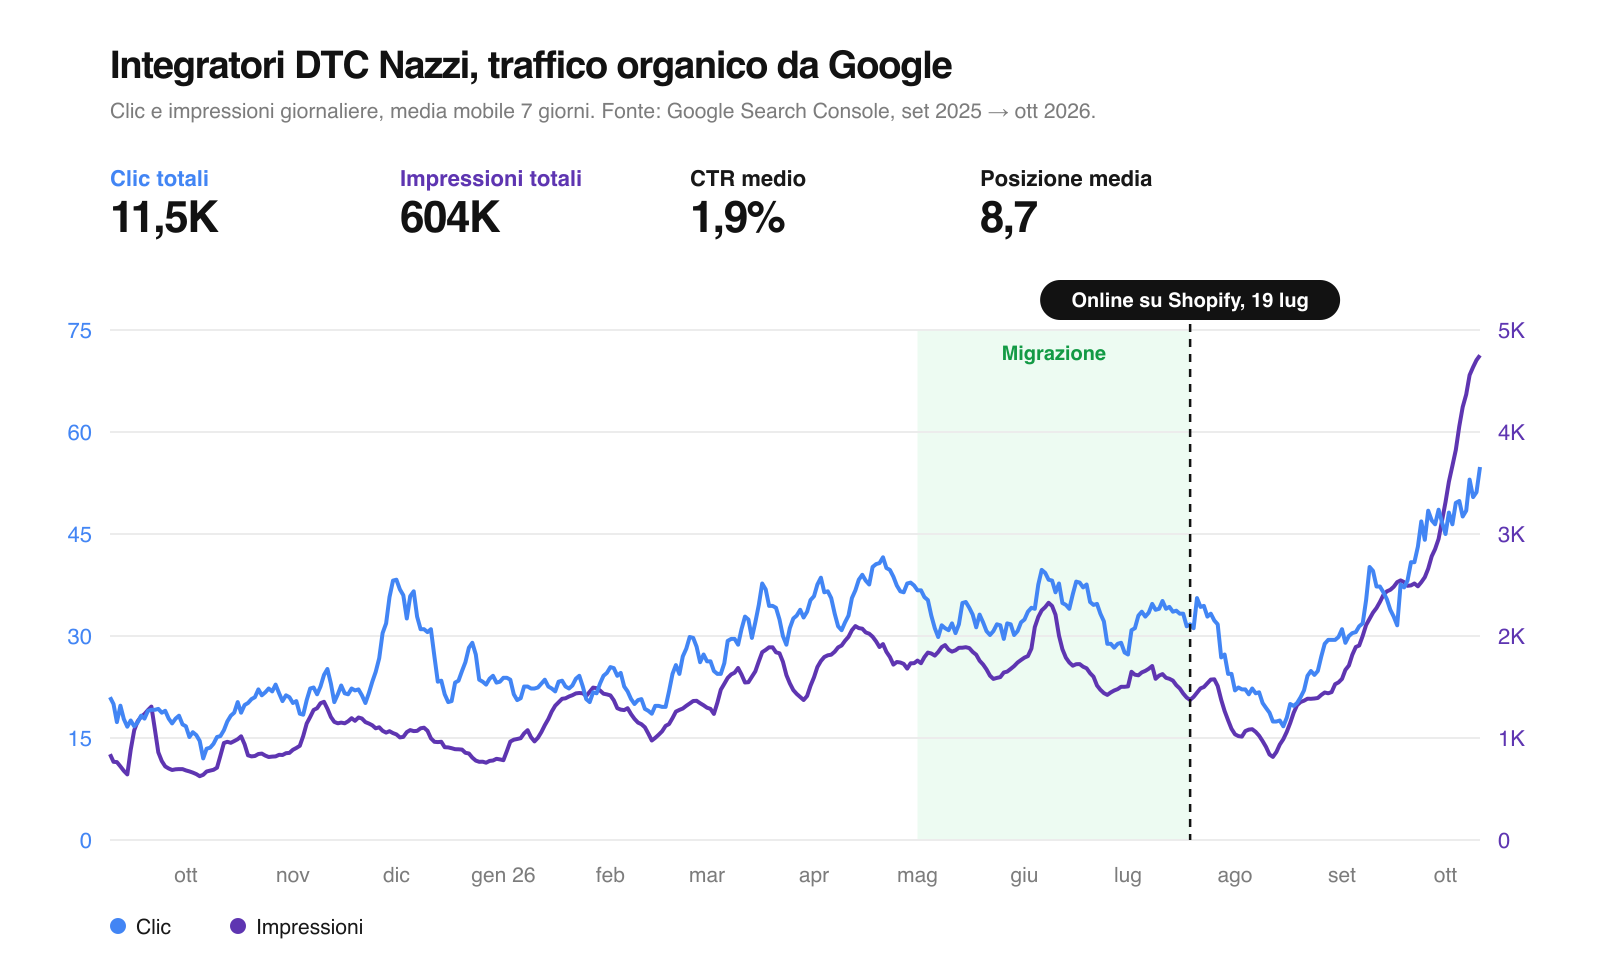
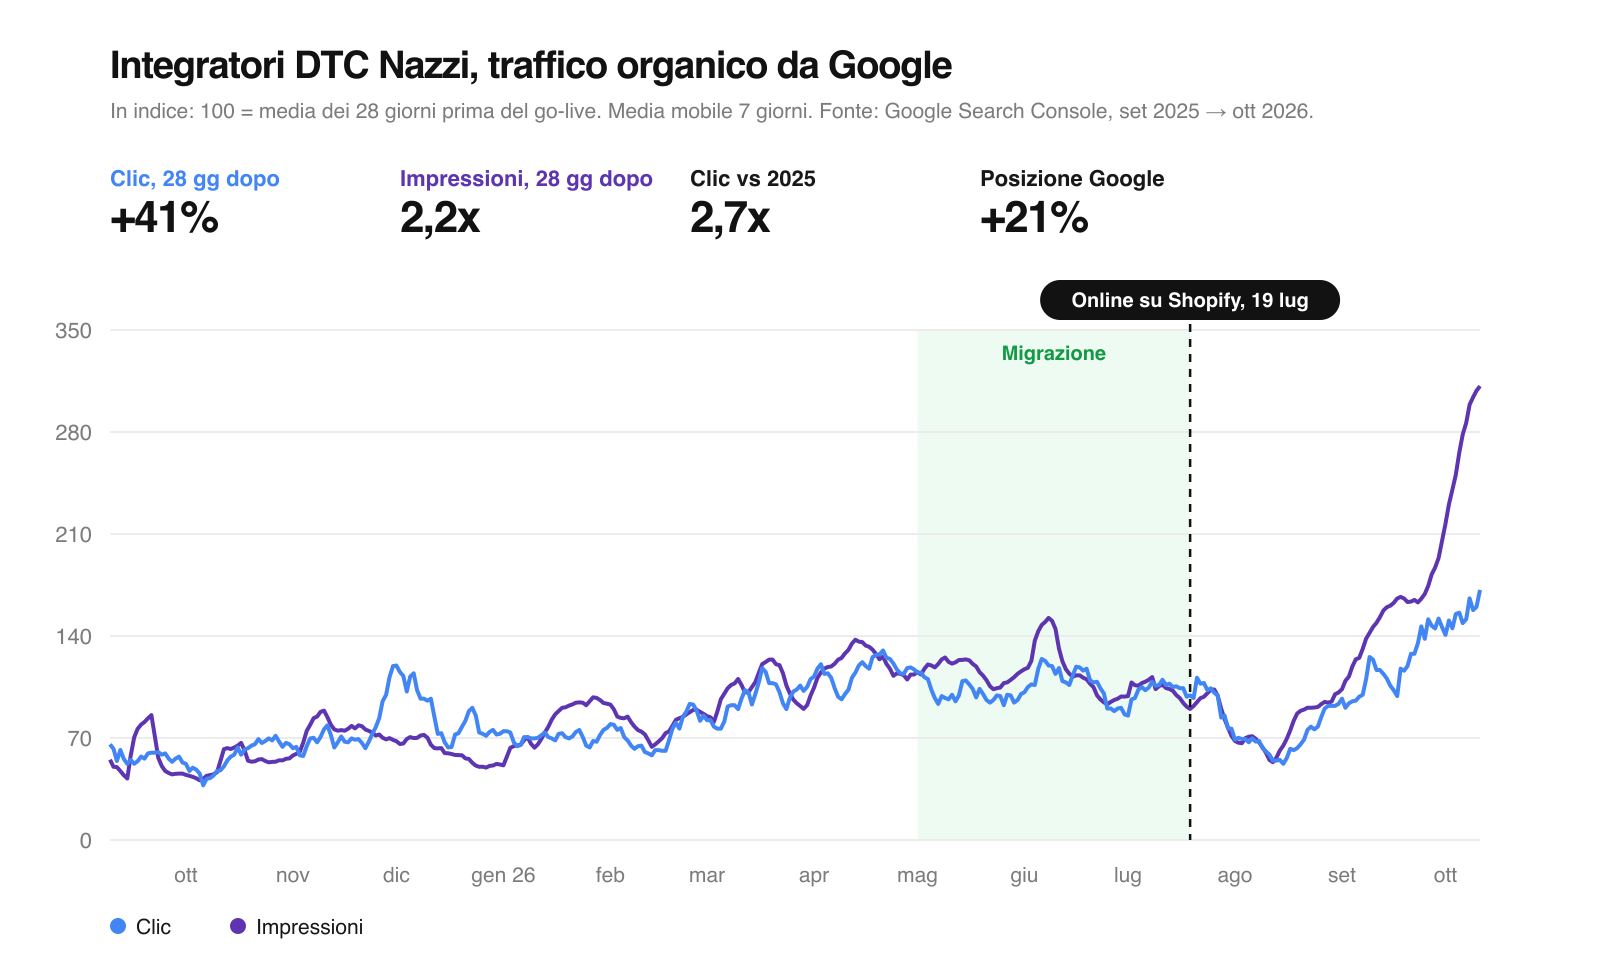
feat: no absolute traffic volumes online, Nazzi Search Console series as an index with percentage KPIs (v1.7.6)
- data/use-cases/nazzi-gsc-daily.json now holds the daily index (100 = average of the 28 days before go-live), so the client bundle carries no raw clicks or impressions
- Landing chart and case study PNG on one indexed axis; KPIs +41% clicks and 2.2x impressions (28 days after vs before), 2.7x clicks vs 2025, +21% average position; the 9.0 → 7.1 figure is no longer published
- Case study text, landing results line, llms.txt aligned; rule in AGENT.md and docs/dati-verificati.md (which keeps the raw totals and the baseline)

diff --git a/data/use-cases/nazzi.ts b/data/use-cases/nazzi.ts
@@ -16,7 +16,8 @@ import type { UseCase } from './index'
  * - 2026 Jan → Oct 12 vs full 2025: +20.0%
  * - Search Console API (data/use-cases/nazzi-gsc-daily.json, exact daily data, 2025-09-09 → 2026-10-11):
  *   last 28 days (Sep 12 → Oct 9) vs 28 days before go live (Jun 21 → Jul 18): clicks 1.41x, impressions 2.17x,
- *   position 9.0 → 7.1; vs same 28 days 2025: clicks 2.71x, impressions 4.03x; period: CTR 1.9%, position 8.7
+ *   position 9.0 → 7.1 (published as +21%); vs same 28 days 2025: clicks 2.71x, impressions 4.03x.
+ *   Public chart and JSON are an index (100 = 28 days before go-live): no absolute volumes online.
  * - Live site 2026-10-13: 143 blog articles in the Shopify sitemap, sitemap_agentic_discovery.xml
  *   published, 215 archived WooCommerce URLs checked one by one.
  */
@@ -166,7 +167,7 @@ export const nazzi: UseCase = {
     {
       type: 'image',
       src: '/images/use-case-nazzi/nazzi-search-console-it.png',
-      alt: 'Google Search Console di Integratori DTC Nazzi: clic e impressioni da settembre 2025 a ottobre 2026, prima e dopo la migrazione da WooCommerce a Shopify',
+      alt: 'Google Search Console di Integratori DTC Nazzi: clic e impressioni in indice da settembre 2025 a ottobre 2026, prima e dopo la migrazione da WooCommerce a Shopify',
       width: 1600,
       height: 960,
     },
@@ -180,11 +181,11 @@ export const nazzi: UseCase = {
     },
     {
       type: 'paragraph',
-      text: 'Negli ultimi 28 giorni i clic da Google sono stati il 41% in più dei 28 giorni prima della migrazione, e 2,7 volte quelli dello stesso periodo del 2025. Le impressioni sono più che raddoppiate rispetto a prima della migrazione, e sono 4 volte quelle di un anno fa. La posizione media è passata da 9,0 a 7,1.',
+      text: 'Negli ultimi 28 giorni i clic da Google sono stati il 41% in più dei 28 giorni prima della migrazione, e 2,7 volte quelli dello stesso periodo del 2025. Le impressioni sono più che raddoppiate rispetto a prima della migrazione, e sono 4 volte quelle di un anno fa. La posizione media su Google è migliorata del 21%.',
     },
     {
       type: 'paragraph',
-      text: 'Su tutto il periodo del grafico il CTR medio è dell’1,9% e la posizione media 8,7.',
+      text: 'Nei 28 giorni dopo il go-live la posizione media su Google è migliorata del 21% rispetto ai 28 giorni prima. Il grafico è in indice (100 = media dei 28 giorni prima del go-live): l’andamento è quello reale, i volumi restano del cliente.',
     },
     { type: 'h3', text: 'Le vendite dopo il go live' },
     {
@@ -403,7 +404,7 @@ export const nazzi: UseCase = {
     {
       type: 'image',
       src: '/images/use-case-nazzi/nazzi-search-console-en.png',
-      alt: 'Google Search Console for Supplement DTC Nazzi: clicks and impressions from September 2025 to October 2026, before and after the WooCommerce to Shopify migration',
+      alt: 'Google Search Console for Supplement DTC Nazzi: clicks and impressions, indexed, from September 2025 to October 2026, before and after the WooCommerce to Shopify migration',
       width: 1600,
       height: 960,
     },
@@ -417,11 +418,11 @@ export const nazzi: UseCase = {
     },
     {
       type: 'paragraph',
-      text: 'In the last 28 days Google clicks were 41% higher than in the 28 days before the migration, and 2.7 times the same period of 2025. Impressions more than doubled compared with before the migration, and are 4 times those of a year ago. The average position went from 9.0 to 7.1.',
+      text: 'In the last 28 days Google clicks were 41% higher than in the 28 days before the migration, and 2.7 times the same period of 2025. Impressions more than doubled compared with before the migration, and are 4 times those of a year ago. The average Google position improved by 21%.',
     },
     {
       type: 'paragraph',
-      text: 'Over the whole period in the chart the average CTR is 1.9% and the average position 8.7.',
+      text: 'In the 28 days after go-live the average Google position improved by 21% compared with the 28 days before. The chart is indexed (100 = daily average of the 28 days before go-live): the trend is the real one, the volumes stay with the client.',
     },
     { type: 'h3', text: 'Sales after go live' },
     {

diff --git a/content/zero-loss-migration.it.ts b/content/zero-loss-migration.it.ts
@@ -75,7 +75,7 @@ export const zeroLossIt: ZlCopy = {
     results: [
       { value: '+105% di vendite online nei primi 85 giorni su Shopify', attribution: 'Integratori DTC Nazzi' },
       { value: '+67,7% di vendite online nei 12 mesi dopo la migrazione', attribution: 'Cumini, luxury multibrand' },
-      { value: 'Posizione media su Google da 9,0 a 7,1, clic 2,7 volte l’anno prima', attribution: 'Integratori DTC Nazzi, Search Console' },
+      { value: 'Posizione su Google migliorata del 21%, clic 2,7 volte l’anno prima', attribution: 'Integratori DTC Nazzi, Search Console' },
       { value: '0 minuti offline in oltre 10 migrazioni', attribution: 'noprob agency' },
     ],
   },
@@ -355,12 +355,12 @@ export const zeroLossIt: ZlCopy = {
         {
           key: 'nazziGsc',
           title: 'Integratori DTC Nazzi, traffico organico da Google',
-          subtitle: 'Clic e impressioni giornaliere, media mobile 7 giorni. Fonte: Google Search Console, proprietà del sito di Integratori DTC Nazzi, da settembre 2025 a ottobre 2026.',
+          subtitle: 'Clic e impressioni giornaliere, media mobile 7 giorni, in indice: 100 è la media dei 28 giorni prima del go-live. Fonte: Google Search Console, proprietà del sito di Integratori DTC Nazzi, da settembre 2025 a ottobre 2026. I volumi restano del cliente.',
           kpis: [
-            { label: 'Clic totali', value: '11,5K' },
-            { label: 'Impressioni totali', value: '604K' },
-            { label: 'CTR medio', value: '1,9%' },
-            { label: 'Posizione media', value: '8,7' },
+            { label: 'Clic, 28 gg dopo il go-live', value: '+41%' },
+            { label: 'Impressioni, 28 gg dopo', value: '2,2x' },
+            { label: 'Clic vs 2025', value: '2,7x' },
+            { label: 'Posizione Google', value: '+21%' },
           ],
           legend: ['Clic', 'Impressioni'],
           migrationLabel: 'Migrazione',

diff --git a/content/zero-loss-migration.en.ts b/content/zero-loss-migration.en.ts
@@ -75,7 +75,7 @@ export const zeroLossEn: ZlCopy = {
     results: [
       { value: '+105% online sales in the first 85 days on Shopify', attribution: 'Supplement DTC Nazzi' },
       { value: '+67.7% online sales in the 12 months after the migration', attribution: 'Cumini, luxury multibrand' },
-      { value: 'Average Google position from 9.0 to 7.1, clicks 2.7 times the year before', attribution: 'Supplement DTC Nazzi, Search Console' },
+      { value: 'Google position improved by 21%, clicks 2.7 times the year before', attribution: 'Supplement DTC Nazzi, Search Console' },
       { value: '0 minutes offline across over 10 migrations', attribution: 'noprob agency' },
     ],
   },
@@ -355,12 +355,12 @@ export const zeroLossEn: ZlCopy = {
         {
           key: 'nazziGsc',
           title: 'Supplement DTC Nazzi, organic traffic from Google',
-          subtitle: 'Daily clicks and impressions, 7-day moving average. Source: Google Search Console, Supplement DTC Nazzi site property, September 2025 to October 2026.',
+          subtitle: 'Daily clicks and impressions, 7-day moving average, indexed: 100 is the daily average of the 28 days before go-live. Source: Google Search Console, Supplement DTC Nazzi site property, September 2025 to October 2026. The volumes stay with the client.',
           kpis: [
-            { label: 'Total clicks', value: '11.5K' },
-            { label: 'Total impressions', value: '604K' },
-            { label: 'Average CTR', value: '1.9%' },
-            { label: 'Average position', value: '8.7' },
+            { label: 'Clicks, 28 days after go-live', value: '+41%' },
+            { label: 'Impressions, 28 days after', value: '2.2x' },
+            { label: 'Clicks vs 2025', value: '2.7x' },
+            { label: 'Google position', value: '+21%' },
           ],
           legend: ['Clicks', 'Impressions'],
           migrationLabel: 'Migration',

diff --git a/data/zero-loss/seo-charts.ts b/data/zero-loss/seo-charts.ts
@@ -2,8 +2,10 @@
  * Series for the results charts of the Shopify Launch Sprint landing.
  * Sources and method in docs/dati-verificati.md.
  *
- * - Supplement DTC Nazzi: daily clicks and impressions from Google Search Console,
- *   read from data/use-cases/nazzi-gsc-daily.json (7-day moving average computed at render).
+ * - Supplement DTC Nazzi: daily clicks and impressions from Google Search Console as an
+ *   index (100 = daily average of the 28 days before go-live, 21 Jun → 18 Jul 2026), read
+ *   from data/use-cases/nazzi-gsc-daily.json (7-day moving average computed at render).
+ *   Index only: the raw volumes never ship to the browser.
  * - cuminiMonthly: [month, sales index, orders index], net sales and orders from the
  *   Shopify backend of cumini.com, 3-month moving average, 100 = monthly average of the
  *   12 months before Shopify (June 2024 → May 2025). Index only: no revenue figures.

diff --git a/components/sections/zero-loss/ZlSeoCharts.tsx b/components/sections/zero-loss/ZlSeoCharts.tsx
@@ -168,10 +168,9 @@ function chartFor(item: Item, lang: Lang) {
           dates={dates}
           lines={[
             { values: movingAverage(gscDaily.map((r) => r.c), 7), color: BLUE, axis: 'left' },
-            { values: movingAverage(gscDaily.map((r) => r.i), 7), color: PURPLE, axis: 'right' },
+            { values: movingAverage(gscDaily.map((r) => r.i), 7), color: PURPLE, axis: 'left' },
           ]}
-          left={{ max: 75, step: 15, color: BLUE }}
-          right={{ max: 5000, step: 1000, color: PURPLE }}
+          left={{ max: 350, step: 50, color: '#7c7c7c' }}
           migration={NAZZI_MIGRATION}
           goLiveLabel={item.goLiveLabel}
           migrationLabel={item.migrationLabel}

diff --git a/docs/dati-verificati.md b/docs/dati-verificati.md
@@ -9,7 +9,10 @@ Ultimo controllo: **16 ottobre 2026**.
 Grafici della landing Shopify Launch Sprint: Search Console di Integratori DTC Nazzi (clic e impressioni giornaliere, come nel case study) e vendite/ordini Cumini in indice (media mobile 3 mesi, 100 = media mensile dei 12 mesi prima di Shopify, fonte backend Shopify di cumini.com). Nessuna cifra di fatturato.
 
 Per riservatezza dei clienti pubblichiamo solo variazioni percentuali, moltiplicatori e
-rapporti, mai fatturati, ordini o clienti in valore assoluto.
+rapporti, mai fatturati, ordini o clienti in valore assoluto. Dal 17 ottobre 2026 vale anche per il
+traffico: niente clic, impressioni o sessioni in valore assoluto, né posizioni medie puntuali. I grafici
+sono in indice (100 = baseline prima del go-live) e i file dati spediti al browser contengono solo
+l'indice; i volumi restano in Search Console, GA4 e in questa pagina.
 
 ## Cumini (fashion luxury multibrand)
 
@@ -63,10 +66,11 @@ Gestione NoProb da gennaio 2024.
 | Giugno e luglio 2026 vs 2025 | 2,57x e 2,19x | mentre si costruiva il nuovo store |
 | Quiz AstrumDonna | oltre mille lead in meno di un mese | online dal 18 set 2026, Klaviyo |
 
-Search Console via API (dati giornalieri esatti in `data/use-cases/nazzi-gsc-daily.json`, dal 9 set 2025
-all'11 ott 2026; prima del 9 set 2025 la proprietà non restituisce dati): 11,5K clic, 604K impressioni,
-CTR 1,9%, posizione media 8,7. Ultimi 28 giorni (12 set → 9 ott) contro i 28 giorni prima del go live
-(21 giu → 18 lug): clic **+41%**, impressioni **2,2x**, posizione **9,0 → 7,1**. Contro gli stessi 28 giorni
+Search Console via API, dal 9 set 2025 all'11 ott 2026 (prima del 9 set 2025 la proprietà non restituisce
+dati): 11,5K clic, 604K impressioni, CTR 1,9%, posizione media 8,7. Questi totali restano qui: il file
+`data/use-cases/nazzi-gsc-daily.json` contiene l'indice giornaliero (100 = media dei 28 giorni prima del go
+live, 21 giu → 18 lug 2026: 31,96 clic e 1.525,7 impressioni al giorno), non i volumi. Ultimi 28 giorni (12 set → 9 ott) contro i 28 giorni prima del go live
+(21 giu → 18 lug): clic **+41%**, impressioni **2,2x**, posizione **9,0 → 7,1** (in pagina solo come **+21%**). Contro gli stessi 28 giorni
 del 2025: clic **2,7x**, impressioni **4,0x**. Agosto 2026 in calo (23 clic al giorno contro 32), settembre
 40, ottobre 53.
 

diff --git a/AGENT.md b/AGENT.md
@@ -15,7 +15,7 @@ copy, routes or tracking.
 
 ## Working rules
 
-1. **Verified data only.** Every public number (pages, blog, landings, `public/llms.txt`, emails) must be in `docs/dati-verificati.md` with its source; if it is not there, verify it or remove it. Client figures only as percentages, multipliers or ratios, never absolute revenue, orders or customers. Prices are in the "Listino" section of the same file: change them there and in every place it lists.
+1. **Verified data only.** Every public number (pages, blog, landings, `public/llms.txt`, emails) must be in `docs/dati-verificati.md` with its source; if it is not there, verify it or remove it. Client figures only as percentages, multipliers or ratios, never absolute revenue, orders or customers, and never absolute traffic volumes (clicks, impressions, sessions) or point average positions: charts are indexed (100 = baseline before go-live) and the data files shipped to the browser hold only the index. Prices are in the "Listino" section of the same file: change them there and in every place it lists.
 2. **One offer, one description.** The Sprint is 14 days, go-live on days 15-30, 90 days of support, 4 written guarantees, public price by company revenue (`ZL_TIERS` in `content/zero-loss-migration.shared.ts`) in 4 installments. Every page that mentions it (migration page, home, blog conclusions, ambassador, `llms.txt`, emails) must say exactly that. Never "10 giorni", "4 mesi", "garanzia 30 giorni" for the Sprint.
 3. **No em dashes** in any public copy (articles, Sprint copy, dictionaries, use cases, `llms.txt`): commas, parentheses or colons. `pnpm check:em-dash` enforces it.
 4. **Copy lives in the copy modules**, never hardcoded in components. IT and EN must say the same thing. House style IT: no "business", "call" becomes "videochiamata" (except "pre-call"), "noi" voice.

diff --git a/docs/CHANGELOG.md b/docs/CHANGELOG.md
@@ -4,6 +4,10 @@ Newest first. Rules live in [AGENT.md](../AGENT.md), the current architecture in
 [ARCHITECTURE.md](ARCHITECTURE.md). Every entry here is history: do not update
 old entries, add a new one on top.
 
+### Changelog v1.7.6 (17 Oct 2026)
+
+- **No absolute traffic volumes online**: the Nazzi Search Console series (landing chart, case study chart PNG, `data/use-cases/nazzi-gsc-daily.json` shipped to the browser) is an index, 100 = daily average of the 28 days before go-live, on one axis; KPIs are +41% clicks and 2.2x impressions (28 days after vs before), 2.7x clicks vs 2025 and +21% average position (9.0 → 7.1, no longer published). Case study text, landing results line and `llms.txt` aligned. Cumini was already indexed; DDglobal shows no axis values. Rule added to AGENT.md and `docs/dati-verificati.md`, which keeps the raw totals and the index baseline.
+
 ### Changelog v1.7.5 (17 Oct 2026)
 
 - **Sprint hero note, final form**: the proof strip of v1.7.4 is gone. The note "Lo possiamo dimostrare 😉" / "We can prove it 😉" (serif italic, green, inline SVG arrow pointing back at the word) is glued to the last word of the H1 claim ("vendite." / "sales.") with `whitespace-nowrap`, so it sits right after it at every width and wraps together with it. No positioned elements, no SVG assets; sizes in em of the headline. `ZlHero` splits the H1 at the first sentence end (`splitHeadline`); copy keys `proofStats` / `proofCta` removed.
